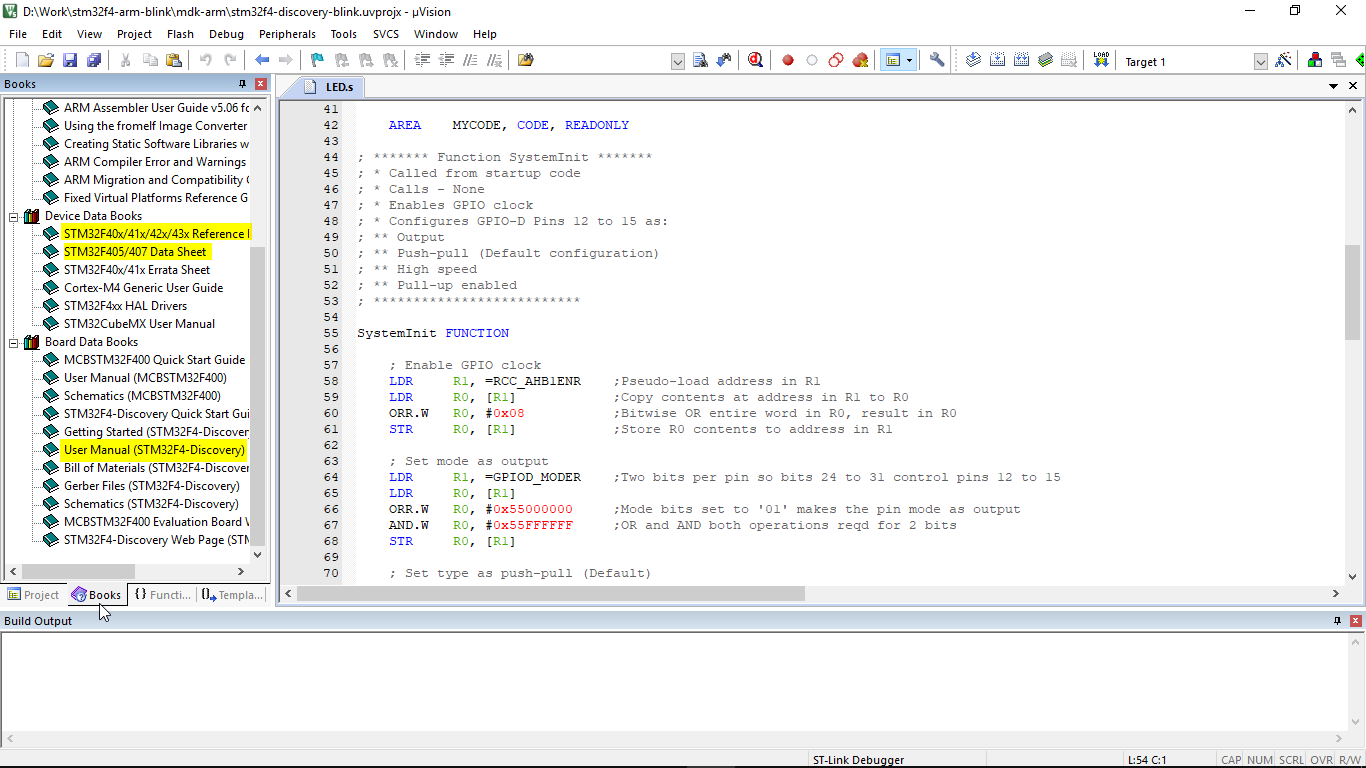
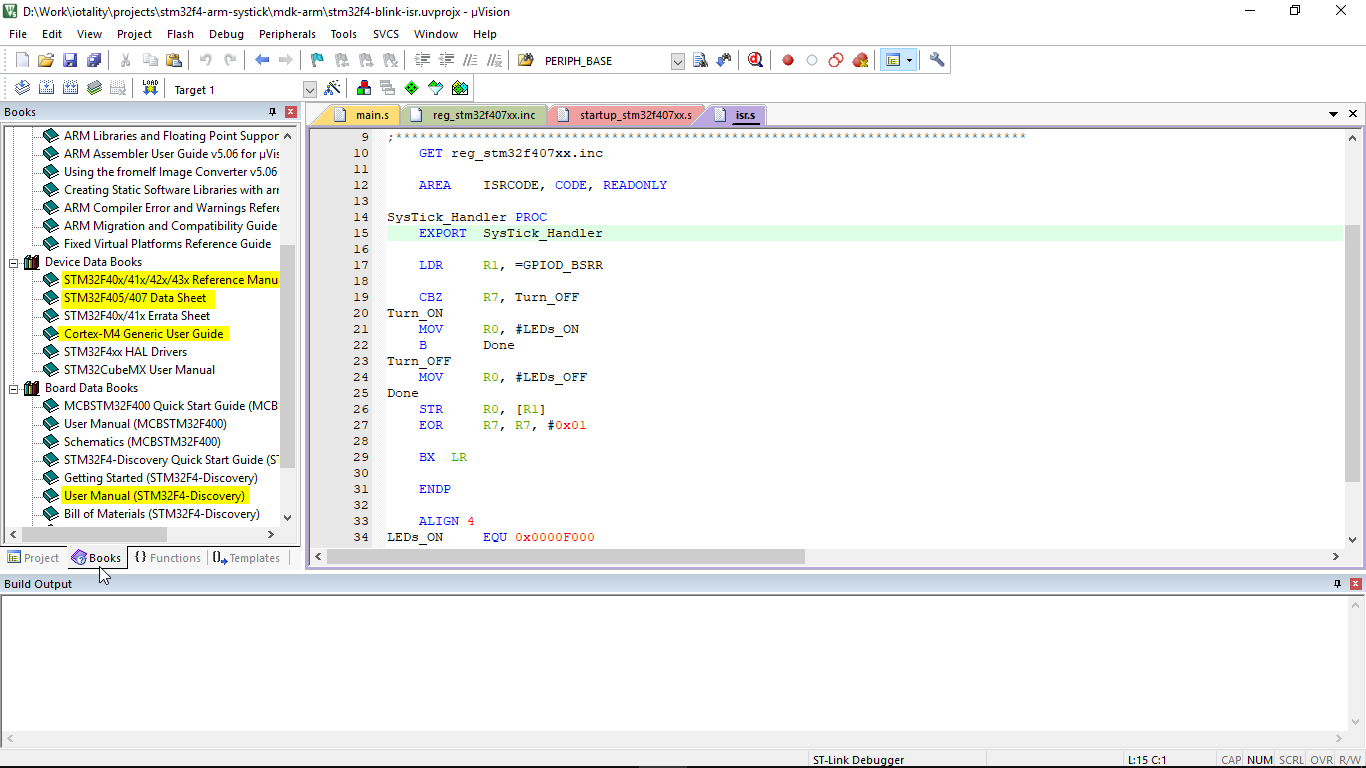
Update README and screenshots

diff --git a/README.md b/README.md
@@ -1,7 +1,7 @@
-### Blink LEDs with ARM assembly on STM32F4
-This repository contains code written in ARM (V7-M) assembly to blink LEDs on the STM32F4 discovery board.
+### How to use ARM Cortex-M SysTick timer to blink LEDs on STM32F4 Discovery board
+This repository contains code written in ARM (V7-M) assembly to blink LEDs on the STM32F4 discovery board. It uses the SysTick timer provided in ARM Cortex-M core.
 
-For detailed explanation of the code, refer blog post - [https://iotality.com/stm32f4-blink](https://iotality.com/stm32f4-blink)
+For detailed explanation of the code, refer blog post - [https://iotality.com/armcm-systick-timer](https://iotality.com/armcm-systick-timer)
 
 This code uses ARM assembler and not the GNU assembler. Source code is contained in this repository in the [src](/src). The project files (for Keil uVision IDE) are in the [mdk-arm](/mdk-arm) folder.
 
@@ -27,7 +27,9 @@ This README contains instructions to build and download the code to STM32F4 disc
 
 #### Steps
 
-Follow the steps below to open the project and see yourself the LEDs blinking on STM32F4 Discovery board.
+Clone this repository and then follow the steps below to open the project and see yourself the LEDs blinking on STM32F4 Discovery board.
+
+If you already have Keil MDK-ARM and STM32F4 software pack  installed then you can skip directly to step 3.
 
 ##### Step 1
 
@@ -37,13 +39,12 @@ Launch Keil uVision IDE. From the 'Project' menu click on 'Open Project' and sel
 
 ![STM32F4 software pack](images/keil-4.png)
 
+![STM32F4 software pack](images/keil-5.png)
+
 
 ##### Step 2
 
-
-![STM32F4 software pack](images/keil-5.png)
-
-The 'Books' tab shows useful documents and resources. In particular the STM32F40x Reference manual, STM32F407 Datasheet and STM32F4-Discovery user manual come handy to understand and write assembly code.
+The 'Books' tab shows useful documents and resources. In particular the STM32F40x Reference manual, STM32F407 Datasheet, STM32F4-Discovery user manual and ARM Cortex-M4 generic user guide come handy to understand and write assembly code.
 
 ![STM32F4 software pack](images/keil-6.png)
 
@@ -78,4 +79,4 @@ Your board should be flashing all the 4 LEDs at 500msec interval.
 
 ##### Step 6
 
-You are done. Head on to the blog post [https://iotality.com/stm32f4-blink](https://iotality.com/stm32f4-blink) to learn more about coding in ARM assembly.
+You are done. Head on to the blog post [https://iotality.com/armcm-systick-timer](https://iotality.com/armcm-systick-timer) to learn more about coding in ARM assembly.
